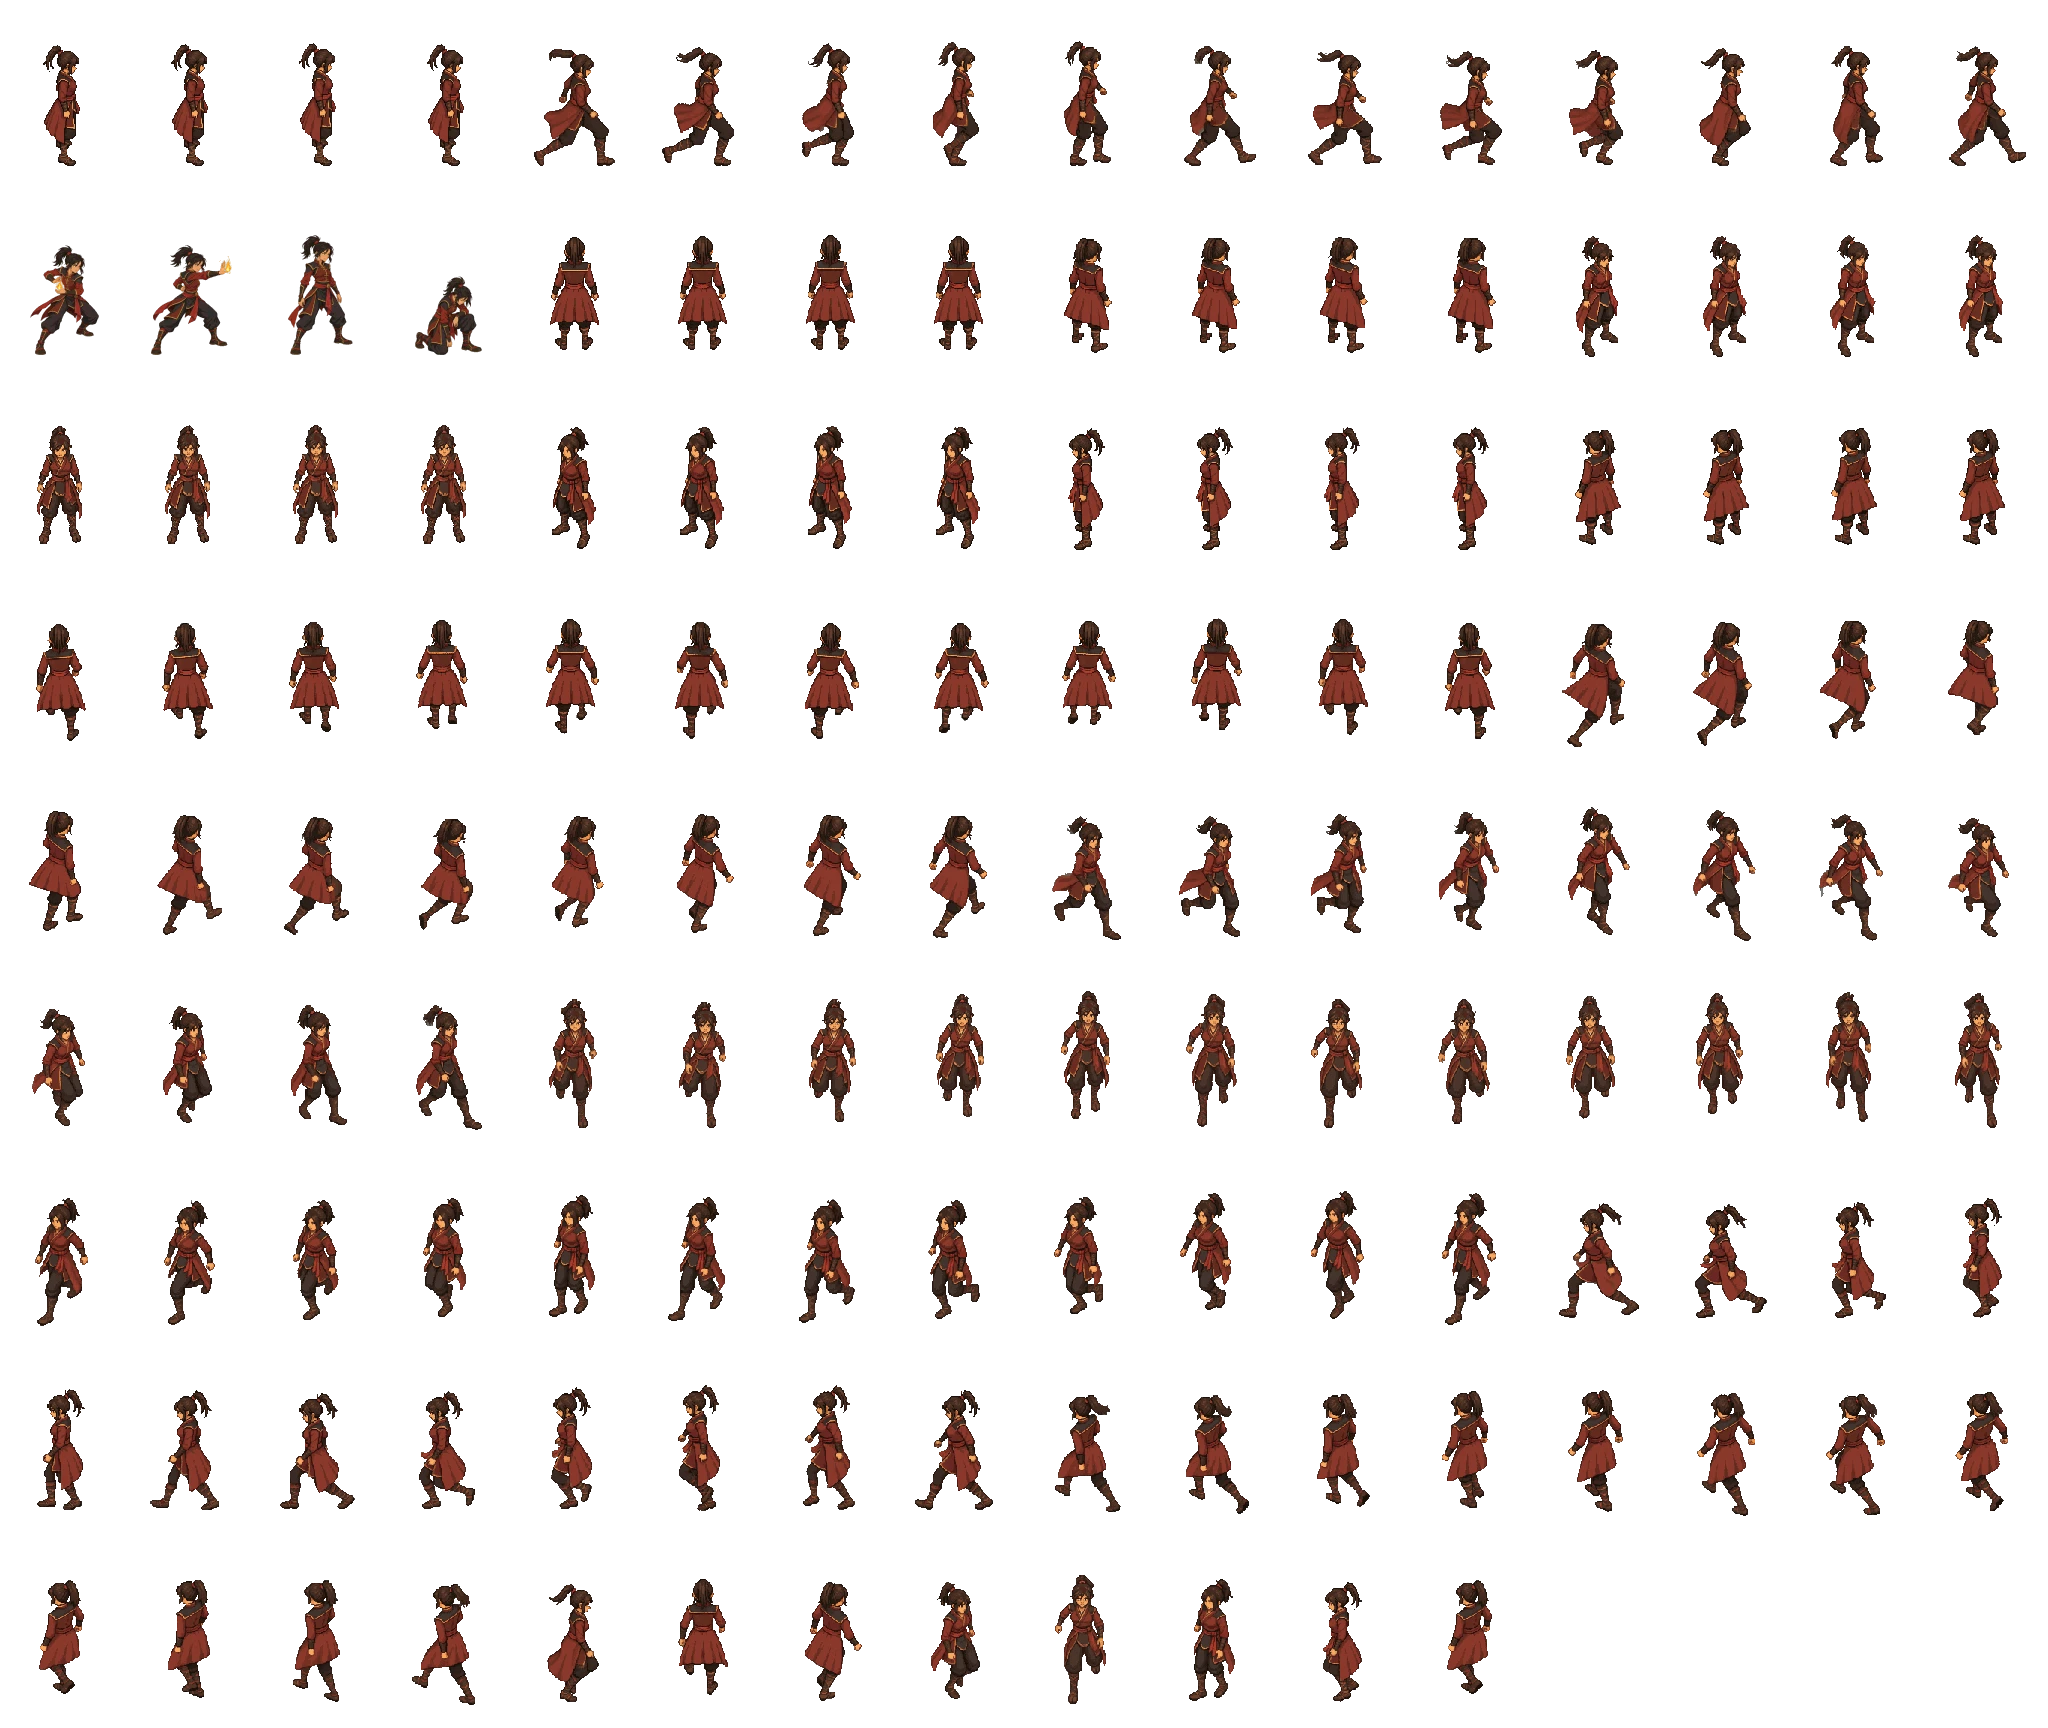
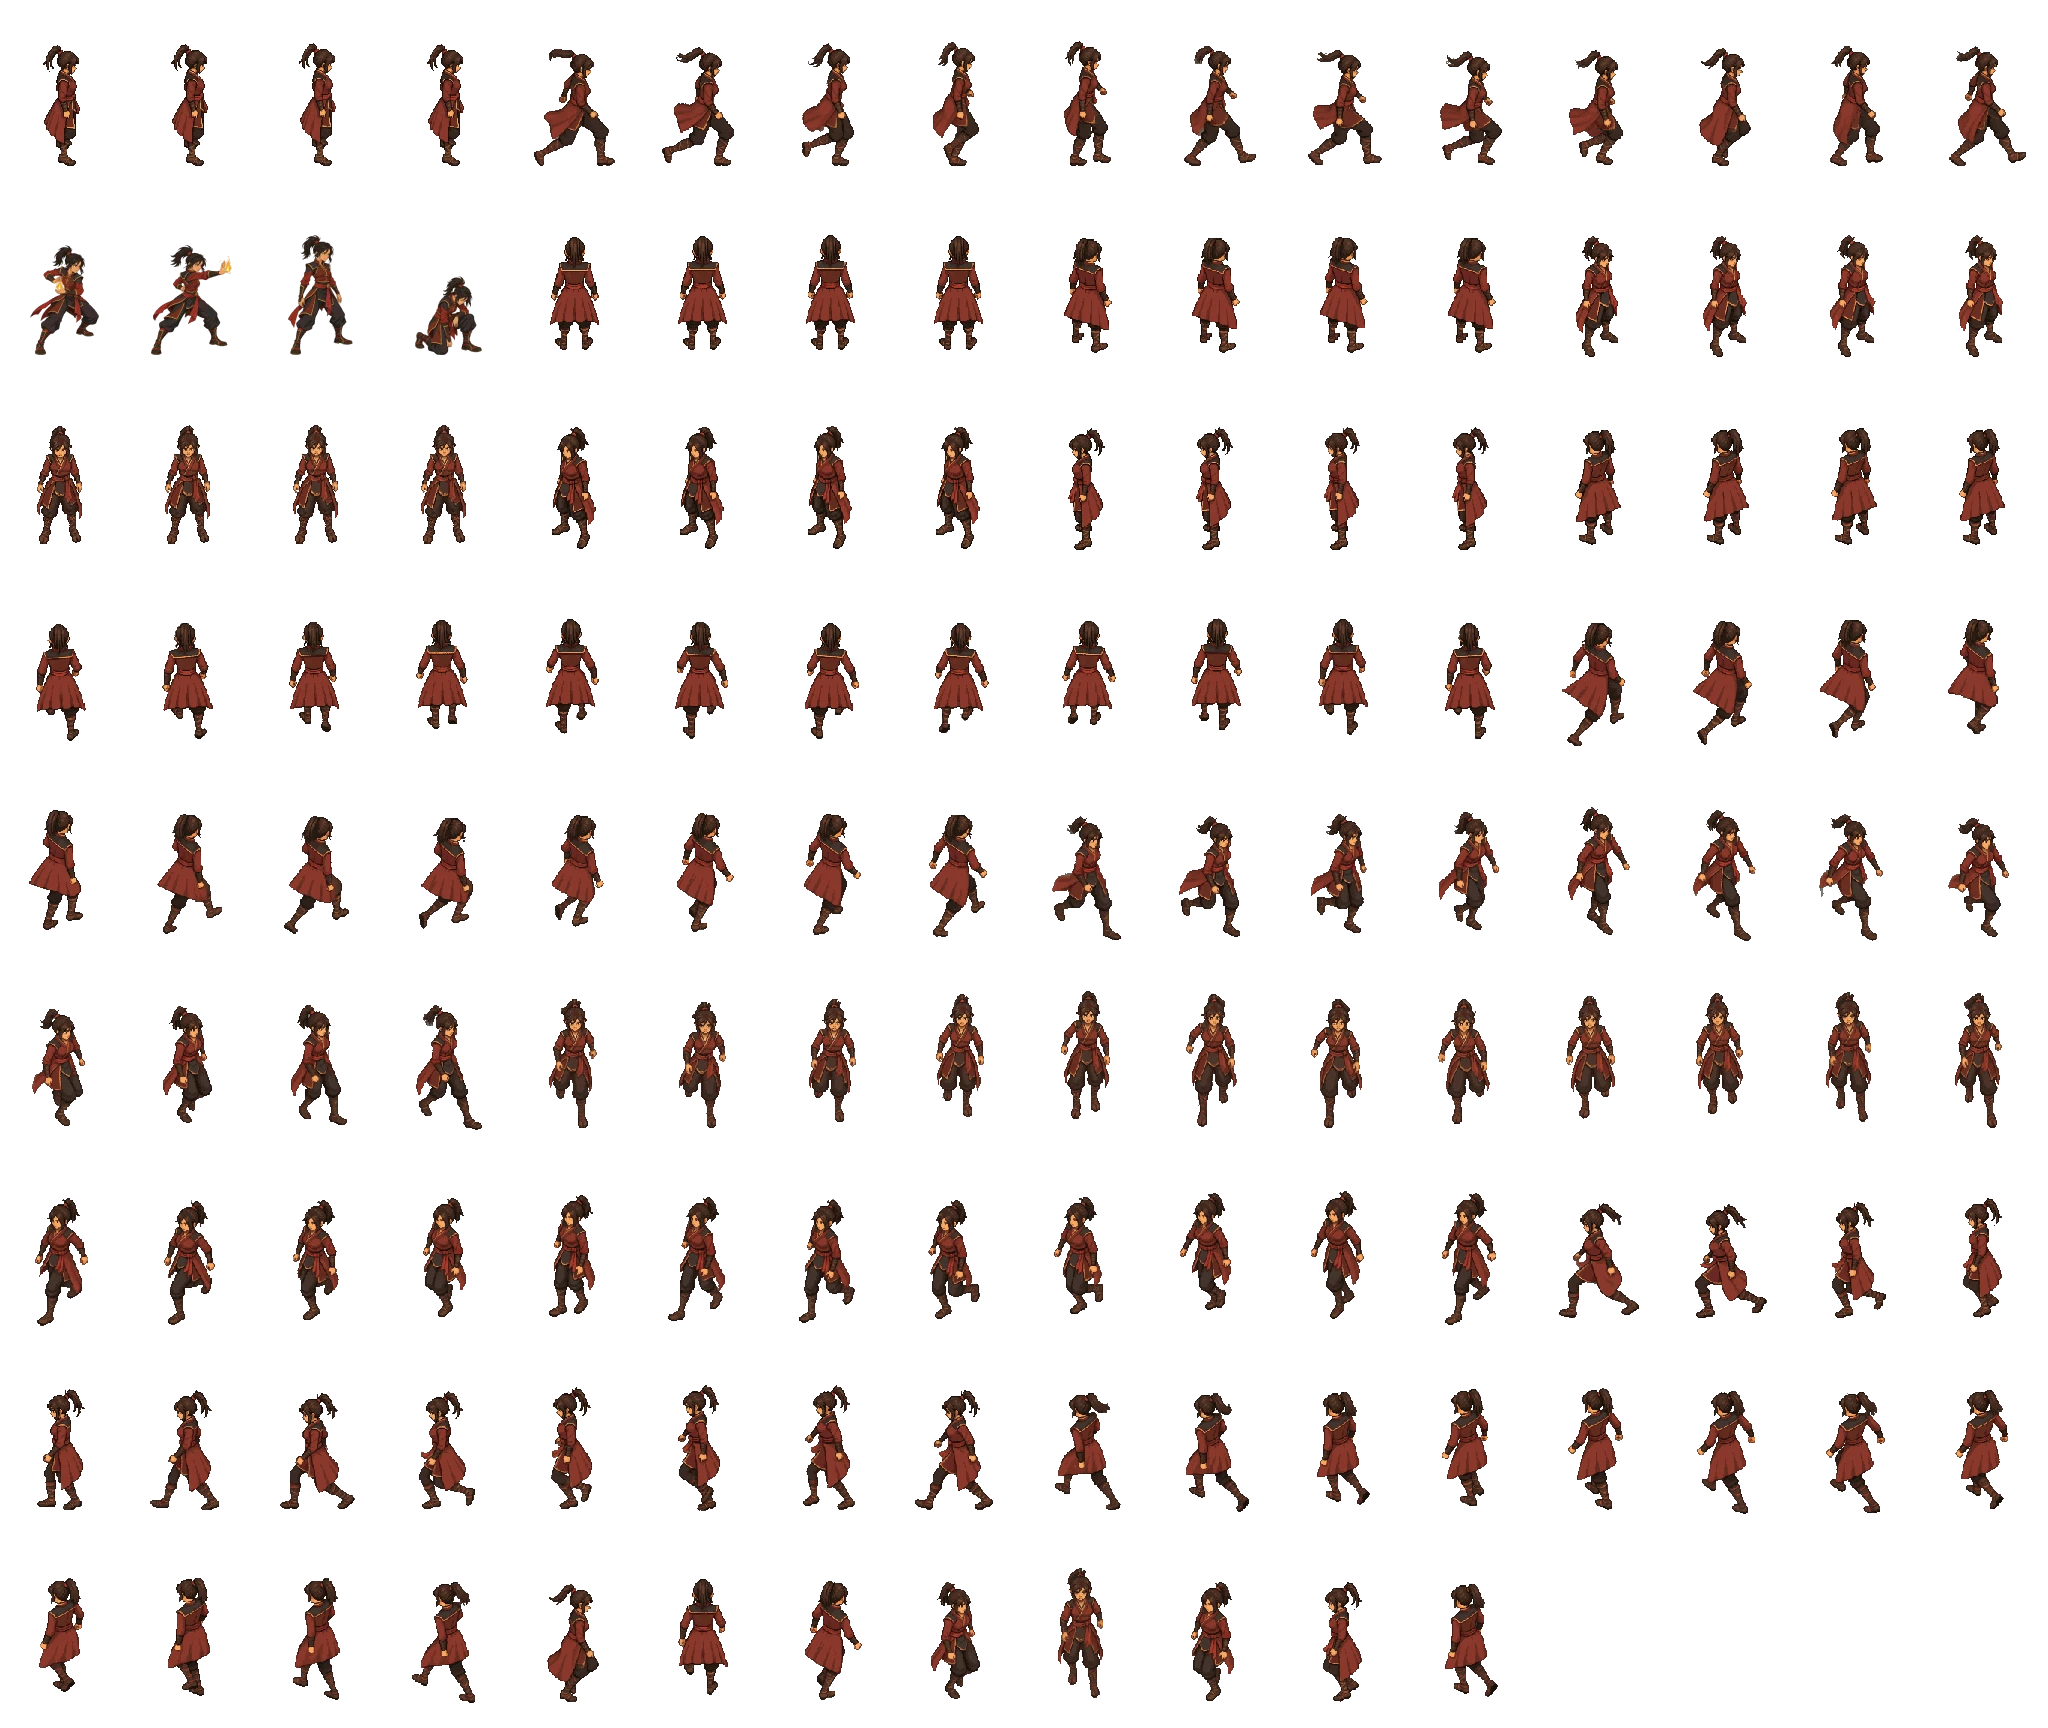
Hold each G walk's mean foot row to its idle and each stop's feet under the column
art:validate now fails a walk or rest clip whose mean lowest row sits more
than 4 px from idle cel 0's, and a rest cel whose feet centre more than
12 px off the anchor column. Kaya's north-east and north-west walks rise
1 and 2 px to pass (4.4 and 5.5 px low), and her south, south-west and
north-west stops take the cel that stands like idle.

diff --git a/scripts/art/validate.ts b/scripts/art/validate.ts
@@ -12,7 +12,8 @@
  * every frame's border. A WebP sheet is lossy, so it is checked on its
  * decoded pixels: the margin, a pin per cel written by the sheet's build
  * script (a hand-edited or re-encoded cel fails), and, for a sheet declaring
- * eight-way locomotion, feet on the anchor's foot line; every `image` entry's file exists, is the PNG or WebP its
+ * eight-way locomotion, feet on the anchor's foot line, a rest cel's feet under
+ * the column and each walk's mean foot row level with its idle's; every `image` entry's file exists, is the PNG or WebP its
  * name says, and measures what its kind of key promises (a portrait is
  * 512x512), because the loader falls back to the drawn placeholder on a
  * missing file and a typo would otherwise ship green; and every map's
@@ -74,6 +75,19 @@ export const STRIDE_BELOW = 10;
  */
 export const STAND_CENTRE = 16;
 export const STRIDE_CENTRE = 32;
+/**
+ * A rest cel is the one pose between the last stride and idle, so its feet
+ * stand under the figure: a stop on a lone leading foot 16 px off the column
+ * reads as a slide.
+ */
+export const REST_CENTRE = 12;
+/**
+ * How far a walk or rest clip's mean lowest opaque row may sit from idle
+ * cel 0's in the same heading. Per cel the lowest row swings with the stride;
+ * over the cycle it stays where she stands, or the figure bobs up or down at
+ * every start and stop.
+ */
+export const FOOT_ROW_TOLERANCE = 4;
 
 /** SHA-256 of a decoded cel's RGBA, as the pin files record it. */
 export function celHash(
@@ -236,6 +250,7 @@ export async function validateSheets(
         );
         for (const base of ['idle', 'walk', 'rest'] as const) {
           const clip = headingClip(base, heading);
+          const rows: number[] = [];
           for (const name of entry.clips[clip]?.frames ?? []) {
             const frame = atlas.frames.get(name);
             if (!frame) continue;
@@ -245,6 +260,7 @@ export async function validateSheets(
               continue;
             }
             const foot = lowestOpaqueRow(cel);
+            rows.push(foot);
             const centre = footCentre(cel) ?? -1;
             const standing = base === 'idle';
             const grounded = standing
@@ -255,9 +271,20 @@ export async function validateSheets(
                 `${key}: cel "${name}" puts its feet at row ${foot}, off the foot line ${line}`,
               );
             }
-            if (Math.abs(centre - column) > (standing ? STAND_CENTRE : STRIDE_CENTRE)) {
+            const centred = standing ? STAND_CENTRE : base === 'rest' ? REST_CENTRE : STRIDE_CENTRE;
+            if (Math.abs(centre - column) > centred) {
               problems.push(
                 `${key}: cel "${name}" centres its feet at x ${centre.toFixed(1)}, off the anchor ${column}`,
+              );
+            }
+          }
+          const idleRow = idleCel && alphaBounds(idleCel) ? lowestOpaqueRow(idleCel) : undefined;
+          if (base !== 'idle' && idleRow !== undefined && rows.length > 0) {
+            const mean = rows.reduce((sum, row) => sum + row, 0) / rows.length;
+            if (Math.abs(mean - idleRow) > FOOT_ROW_TOLERANCE) {
+              problems.push(
+                `${key}: clip "${clip}" has its mean foot row at ${mean.toFixed(2)}, ` +
+                  `${(mean - idleRow).toFixed(2)} px from idle's ${idleRow}`,
               );
             }
           }

diff --git a/scripts/art/g-sprites.ts b/scripts/art/g-sprites.ts
@@ -137,12 +137,12 @@ export const CHARACTERS: Readonly<Record<'kaya' | 'sura' | 'bo', GCharacter>> = 
     // E, NE, N, NW, W, SW, S, SE: [rest cel, walk dx, walk dy, idle dy]
     headings: headings([
       [9, 0, 0],
-      [9, 0, -1],
+      [9, 0, -2],
       [10, 0, 0],
-      [8, 0, 1],
+      [2, 0, -1],
       [3, 6, 0],
-      [4, 0, -1],
-      [6, 0, -4],
+      [3, 0, -1],
+      [10, 0, -4],
       [9, 0, -1],
     ]),
   },
